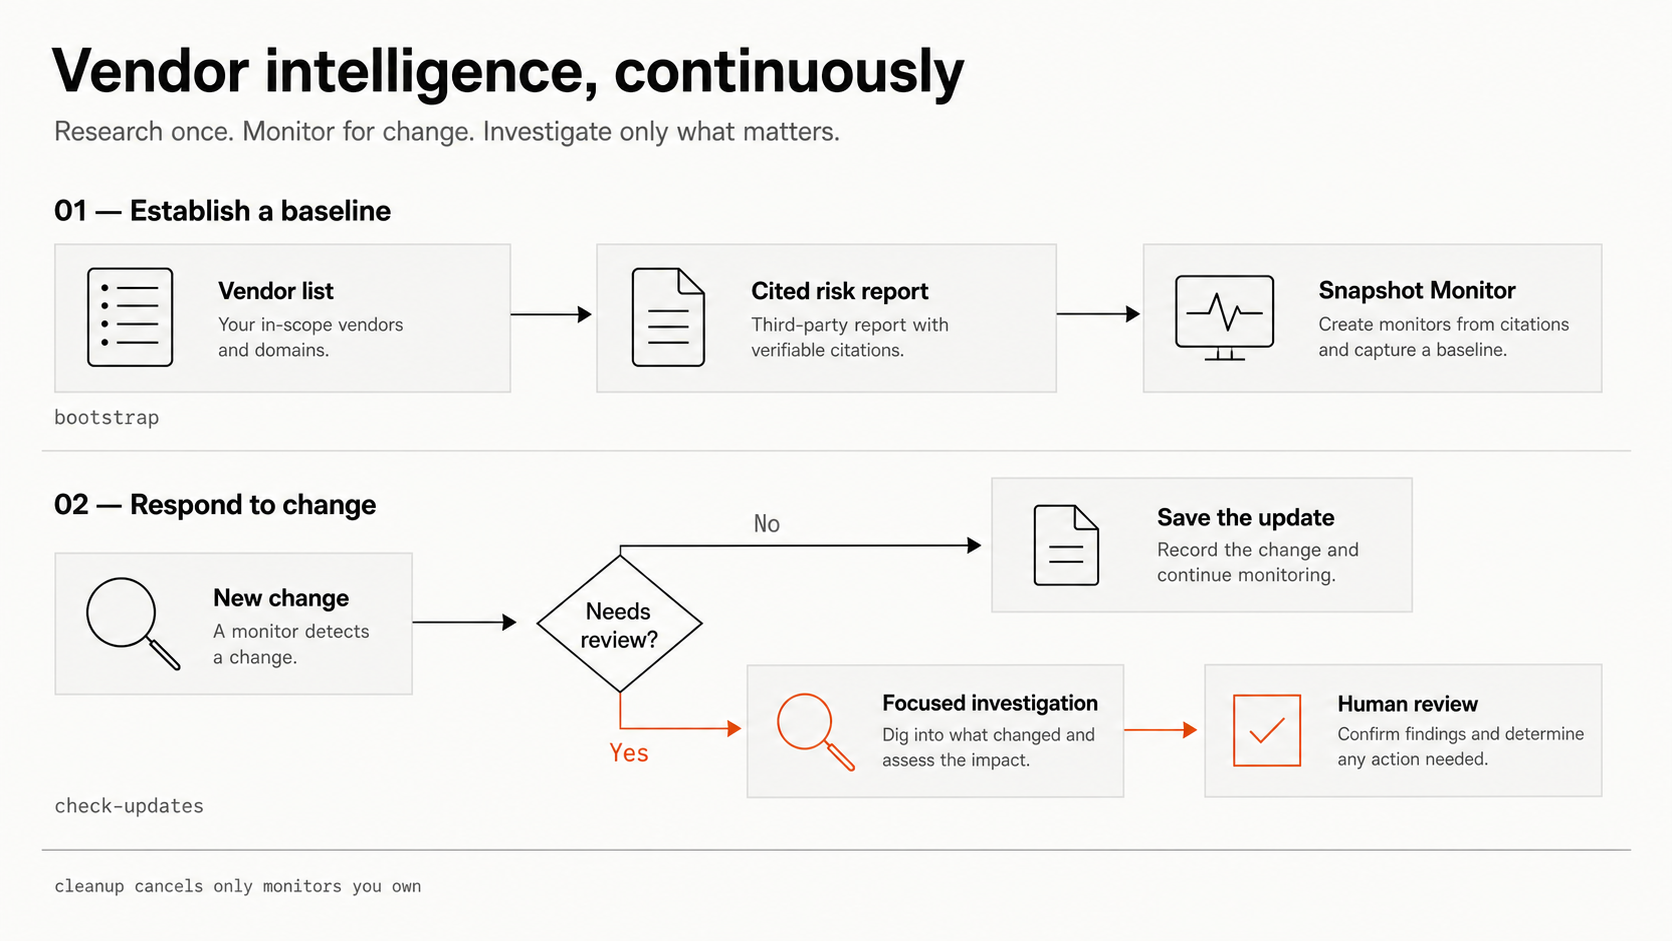
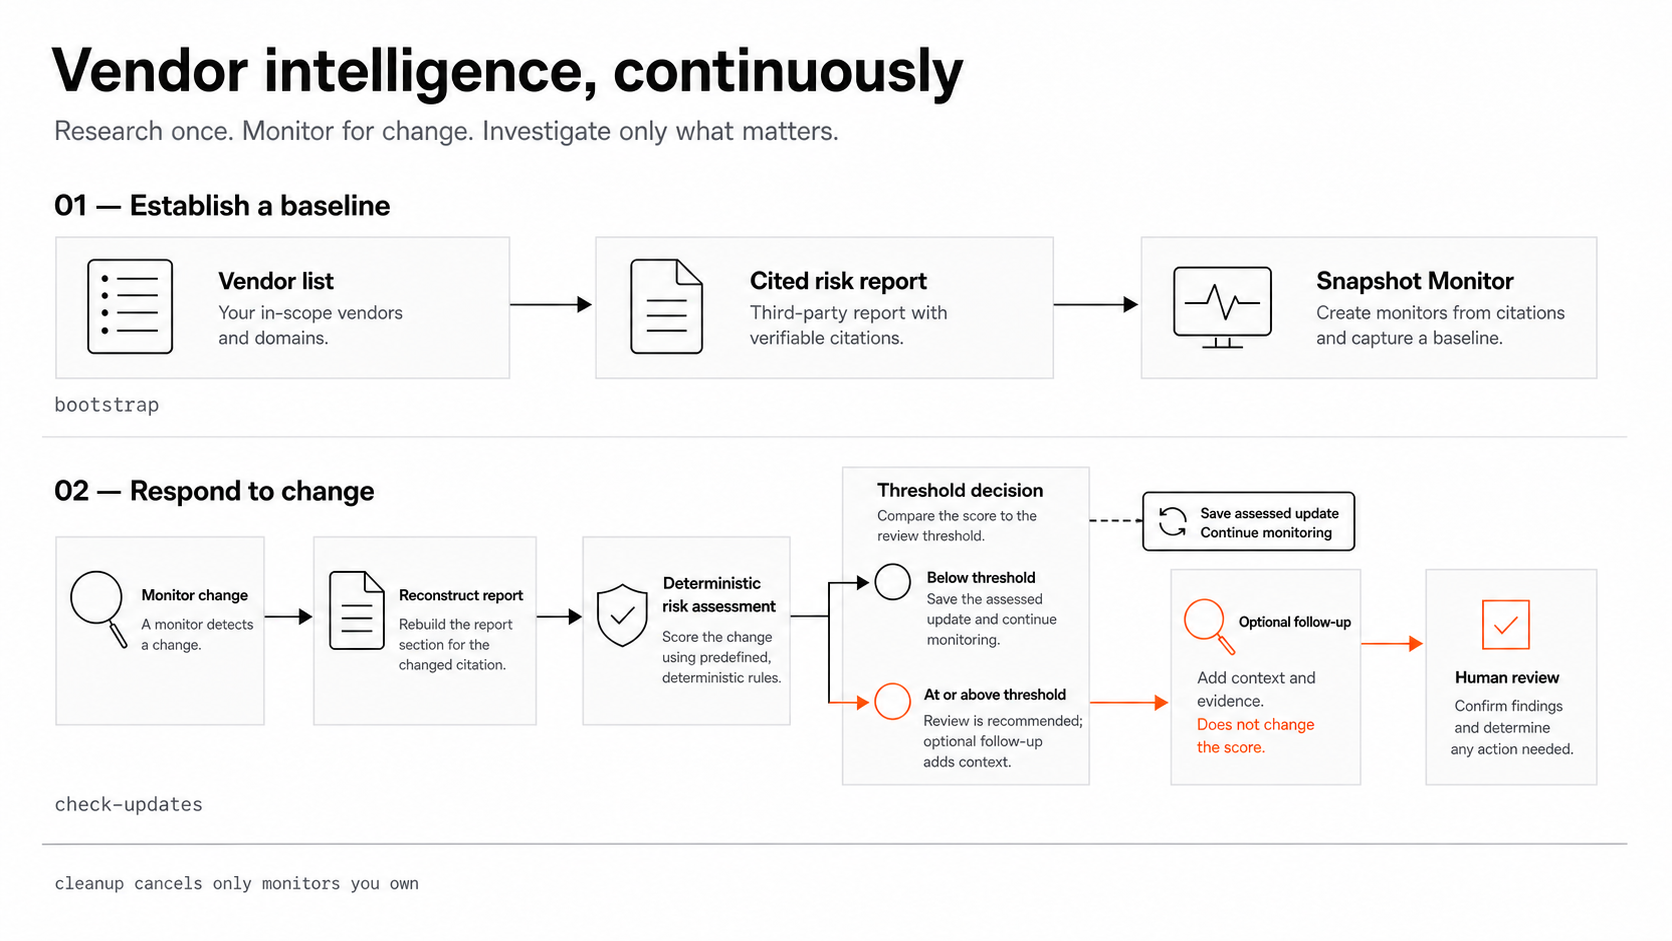
docs(vendor-intelligence): clarify update lifecycle

diff --git a/typescript-recipes/parallel-vendor-intelligence/README.md b/typescript-recipes/parallel-vendor-intelligence/README.md
@@ -7,7 +7,7 @@ Research a vendor once, monitor the same risk report for changes, and investigat
 This recipe uses the Parallel Task API and Monitor API through three local commands:
 
 - `bootstrap` researches each vendor and starts a snapshot Monitor.
-- `check-updates` reads new Monitor events and runs follow-up research when a change is material.
+- `check-updates` reconstructs new Monitor events, assesses risk deterministically, and optionally runs focused follow-up research when a change crosses the threshold.
 - `cleanup` cancels the Monitors recorded in this recipe's local state.
 
 Parallel provides the researched evidence. The recipe validates that evidence and applies a deterministic risk policy, so the final risk level and human-review guidance do not depend on another model call.
@@ -75,6 +75,55 @@ Leave the Monitor active if you want it to keep watching the vendor. Run the upd
 npm run --silent check-updates | jq
 ```
 
+When a change is found, the command emits one structured summary. This abridged example uses sample IDs, findings, and citations rather than output from a specific live run:
+
+```json
+{
+  "monitorsChecked": 1,
+  "newEvents": 1,
+  "followUpDecisions": 1,
+  "followUpTasksCreated": 1,
+  "followUpsCompleted": 1,
+  "humanReviewsRequired": 1,
+  "changes": [
+    {
+      "vendor": { "name": "Cloudflare", "domain": "cloudflare.com" },
+      "event": {
+        "monitorId": "monitor_...",
+        "eventId": "mevt_...",
+        "eventDate": "2026-07-14",
+        "changedFields": ["cybersecurity"]
+      },
+      "assessment": {
+        "risk": {
+          "level": "HIGH",
+          "requiresHumanReview": true,
+          "guidance": "urgent_human_review"
+        }
+      },
+      "decision": {
+        "runFollowUp": true,
+        "threshold": "HIGH",
+        "previousLevel": "MEDIUM",
+        "currentLevel": "HIGH"
+      },
+      "followUp": {
+        "status": "completed",
+        "runId": "trun_...",
+        "investigation": {
+          "what_changed": "A newly reported security incident changed the assessment.",
+          "confirmed_facts": ["The incident was confirmed in public reporting."],
+          "business_impact": "Review exposure and contingency plans.",
+          "open_questions": ["Does the incident affect shared data?"]
+        }
+      }
+    }
+  ],
+  "warnings": [],
+  "errors": []
+}
+```
+
 An empty `changes` list is a successful result; it means there are no new Monitor events to process. Running `bootstrap` again reuses the completed baseline and matching active Monitor.
 
 When you are finished, cancel every Monitor owned by this recipe:
@@ -125,6 +174,10 @@ Repeat `--vendor` to cancel several vendors. Run cleanup without flags to cancel
 
 A vendor `riskFloor` at or above `FOLLOW_UP_RISK_THRESHOLD` also triggers investigation for any changed risk field. Tasks and active Monitors consume Parallel credits. Completed Tasks remain in your account history and cannot be cancelled.
 
+The risk assessment and threshold decision are completed before any optional follow-up Task. Follow-up research adds confirmed facts, business impact, open questions, and citations; it does not rescore the report or replace the deterministic decision.
+
+`adverse_events` are discrete, evidence-backed events returned by the Task, such as a breach or lawsuit. Their severity participates in aggregate scoring, and the presence of any supported adverse event requires human review even when its severity is `LOW`.
+
 `check-updates` reports each processed event with its changed fields, current assessment, policy decision, and one follow-up status:
 
 - `not_required`: the change did not cross the threshold.
@@ -134,7 +187,7 @@ A vendor `riskFloor` at or above `FOLLOW_UP_RISK_THRESHOLD` also triggers invest
 
 ## State and recovery
 
-The recipe stores Task IDs, Monitor IDs, evidence, and processed event IDs in `.vendor-intelligence/state.json`. Writes are validated and atomic. A command lock prevents two lifecycle commands from changing the same state at once.
+The recipe stores Task IDs, Monitor IDs, evidence snapshots, and processed event IDs in `.vendor-intelligence/state.json`. Writes are validated and atomic. A command lock prevents two lifecycle commands from changing the same state at once. Monitor patches are applied oldest to newest to a known complete predecessor; an invalid event blocks dependent partial patches until a complete event rebases the chain.
 
 Commands are safe to repeat. A repeated command resumes a running Task, reuses a matching Monitor, and skips Monitor events it has already processed. Cleanup only cancels Monitor IDs found in local state.
 